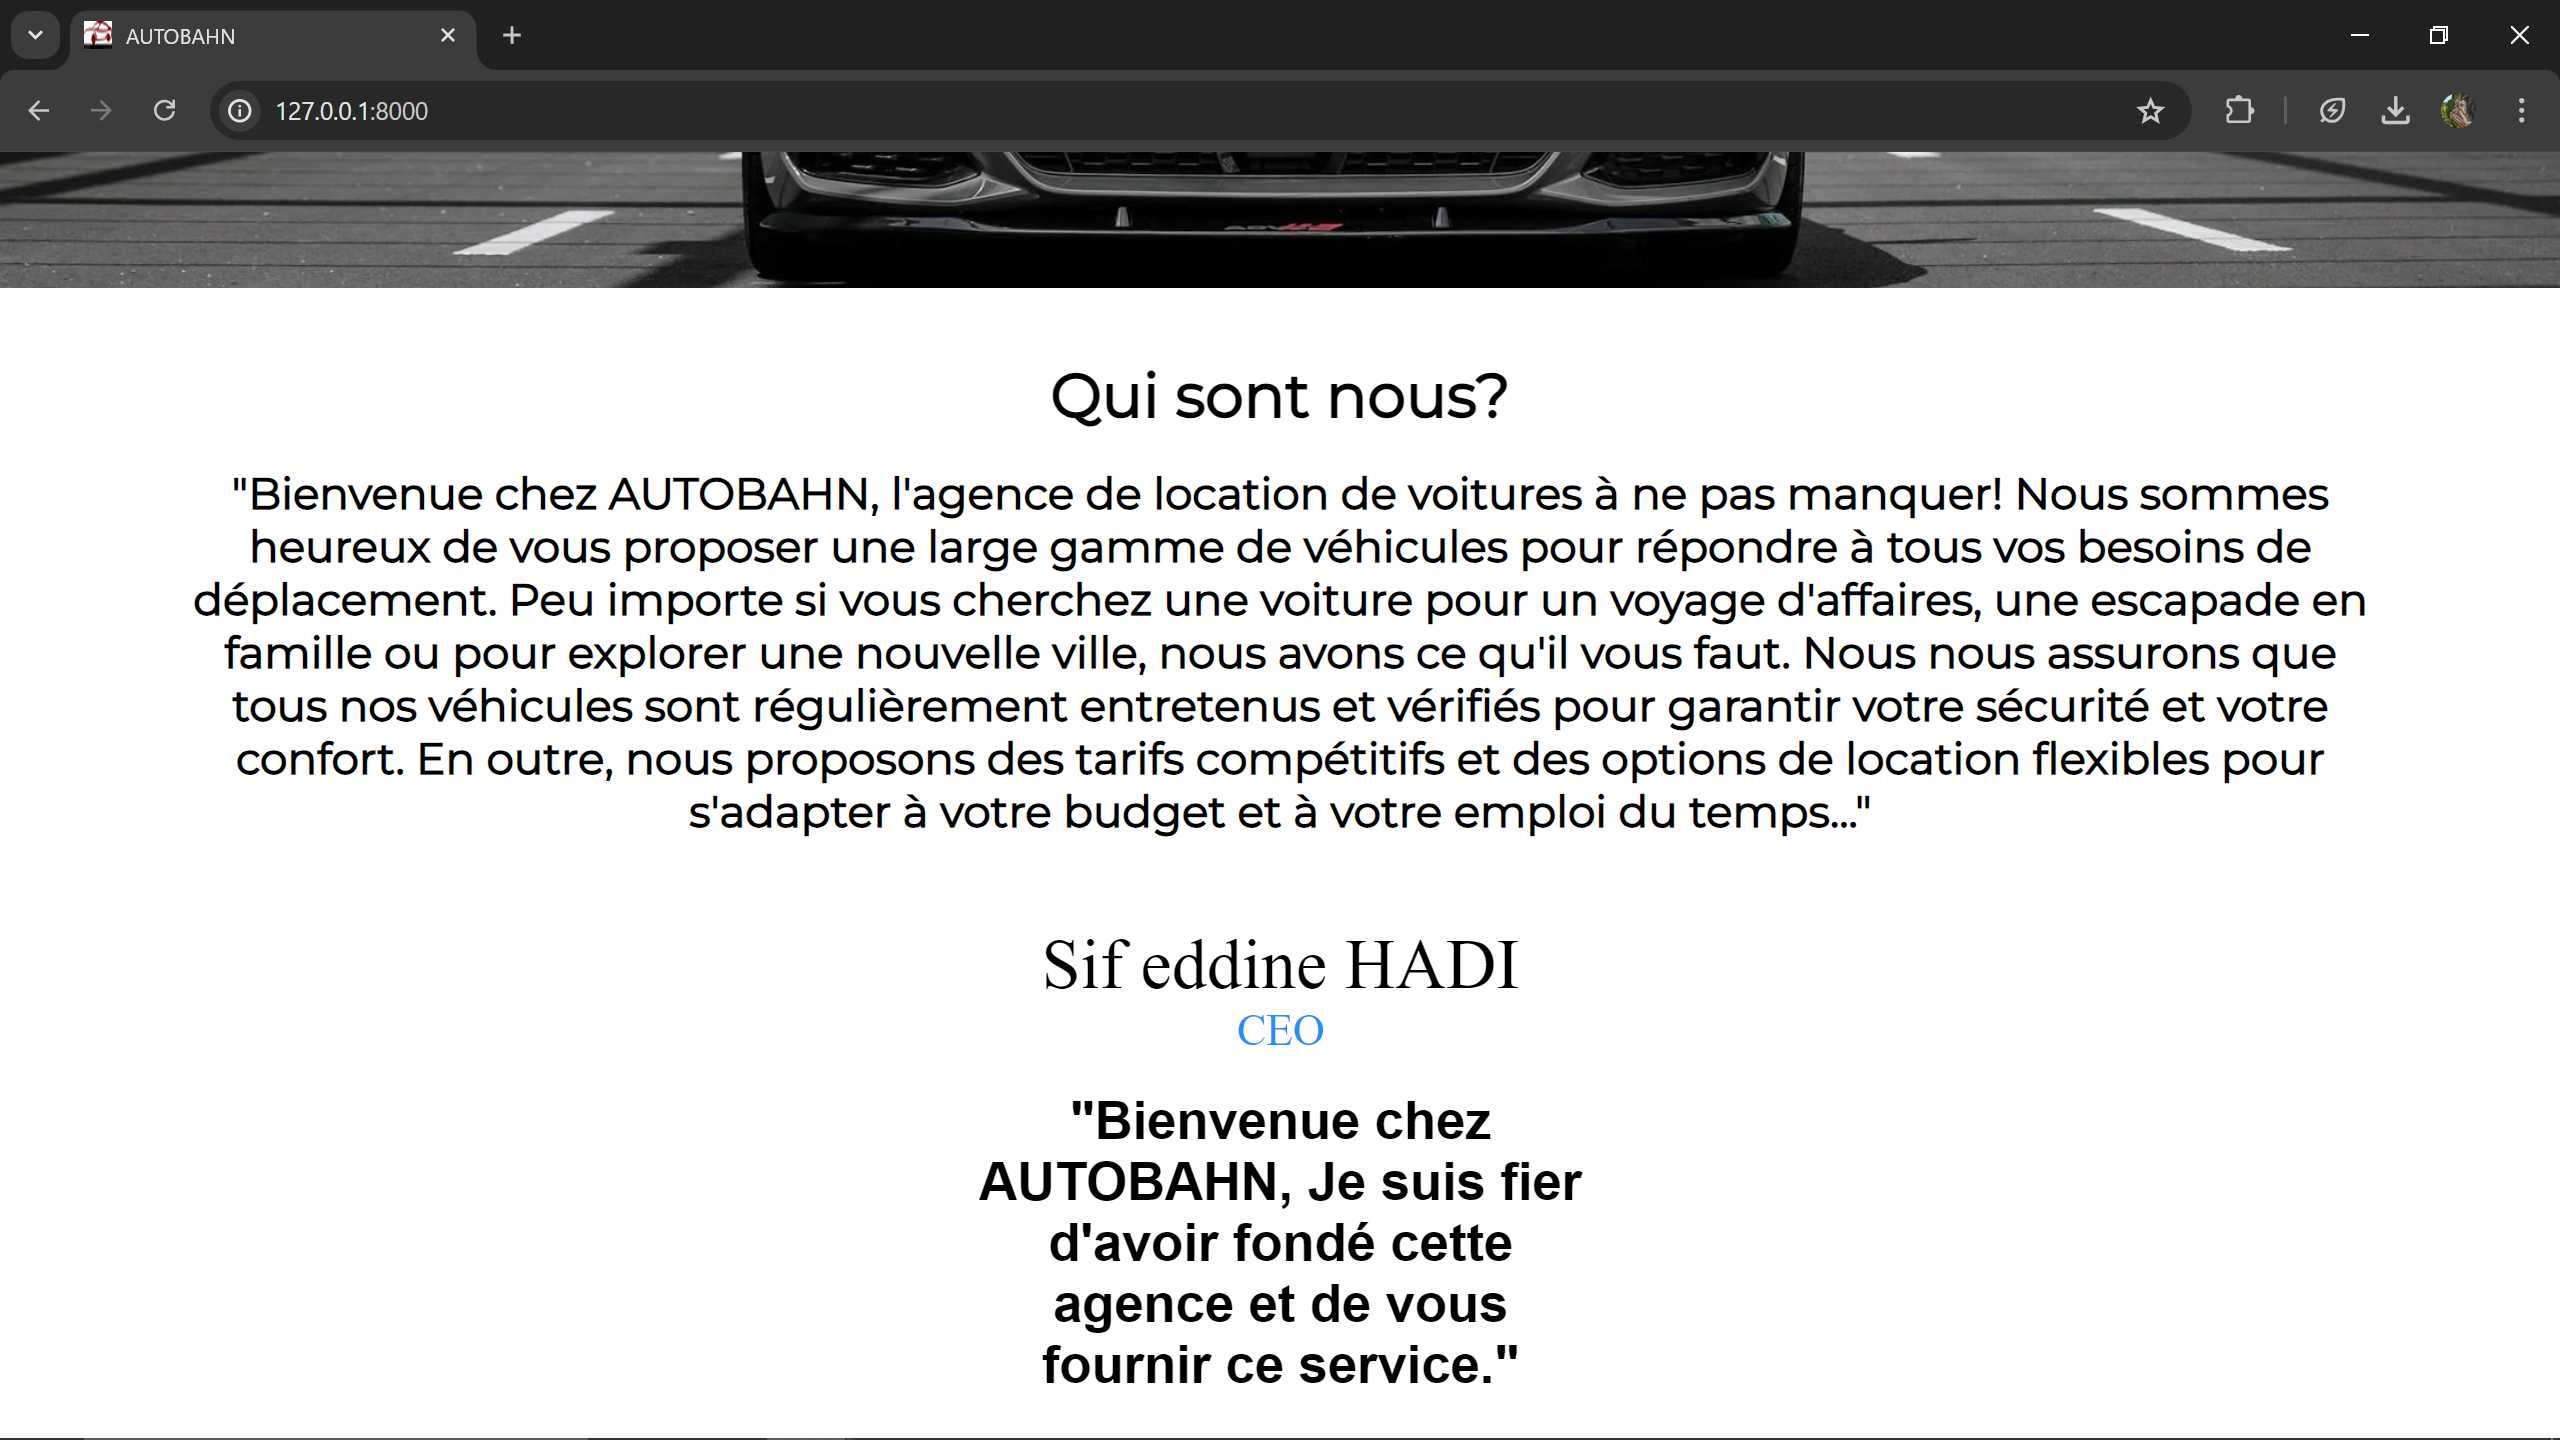
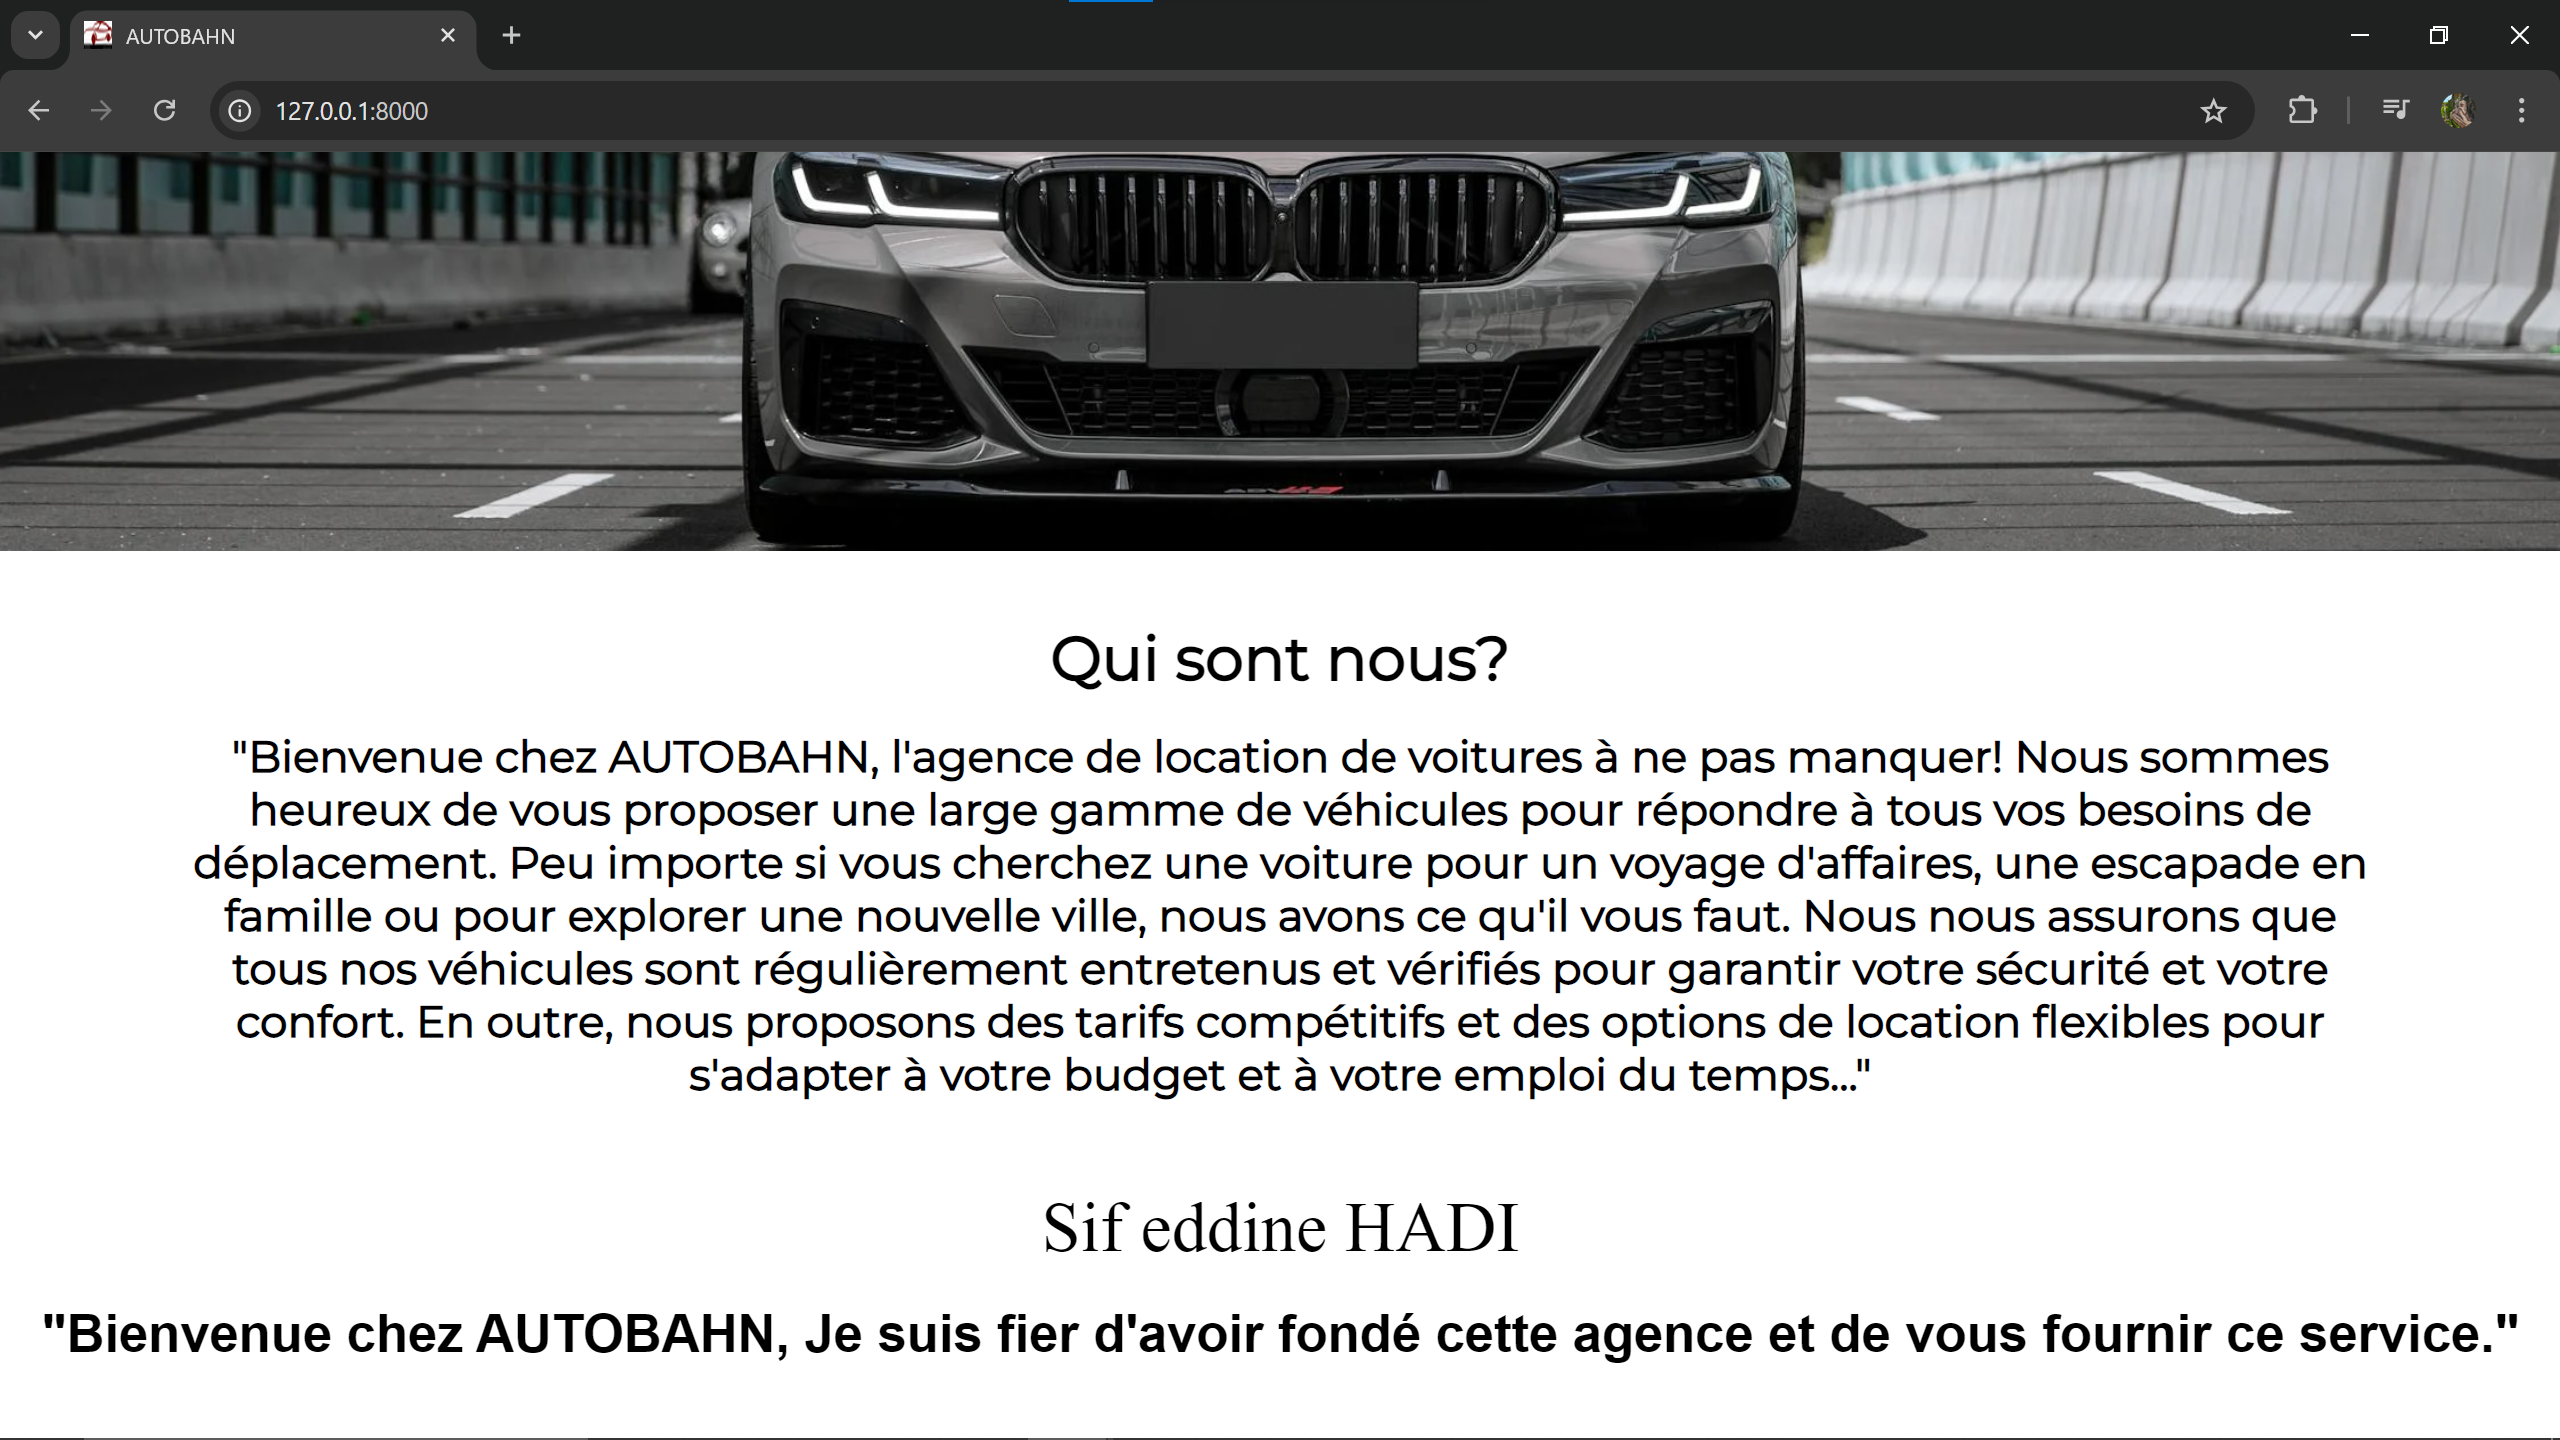
improve style

diff --git a/resources/views/accueil.blade.php b/resources/views/accueil.blade.php
@@ -19,10 +19,9 @@
         </p>
     </div>
     <div class="fondateurs">
-      <div>
         {{-- <img src="" class="" alt="" /> --}}
         <h1>Sif eddine HADI</h1>
-        <h2>CEO</h2>
+        {{-- <h2>CEO</h2> --}}
         <p>
           "Bienvenue chez AUTOBAHN, Je suis fier d'avoir fondé cette agence et de vous fournir ce service."
         </p>
@@ -31,14 +30,7 @@
     </div>
   </div>
 <div class="garantie">
-    <div class="div_garantie">
-      <img src="/garantie/garantie.png" alt="" class="img_garantie" />
-      <h2>3 jours pour décider.</h2>
-      <p>
-        Vous avez 3 jours pour lequel
-        <br /> vous pouvez annuler une réservation
-      </p>
-    </div>
+    
     <div class="div_garantie">
       <img src="/garantie/garantie.png" alt="" class="img_garantie" />
       <h2>AUTOBAHN assure la qualité.</h2>
